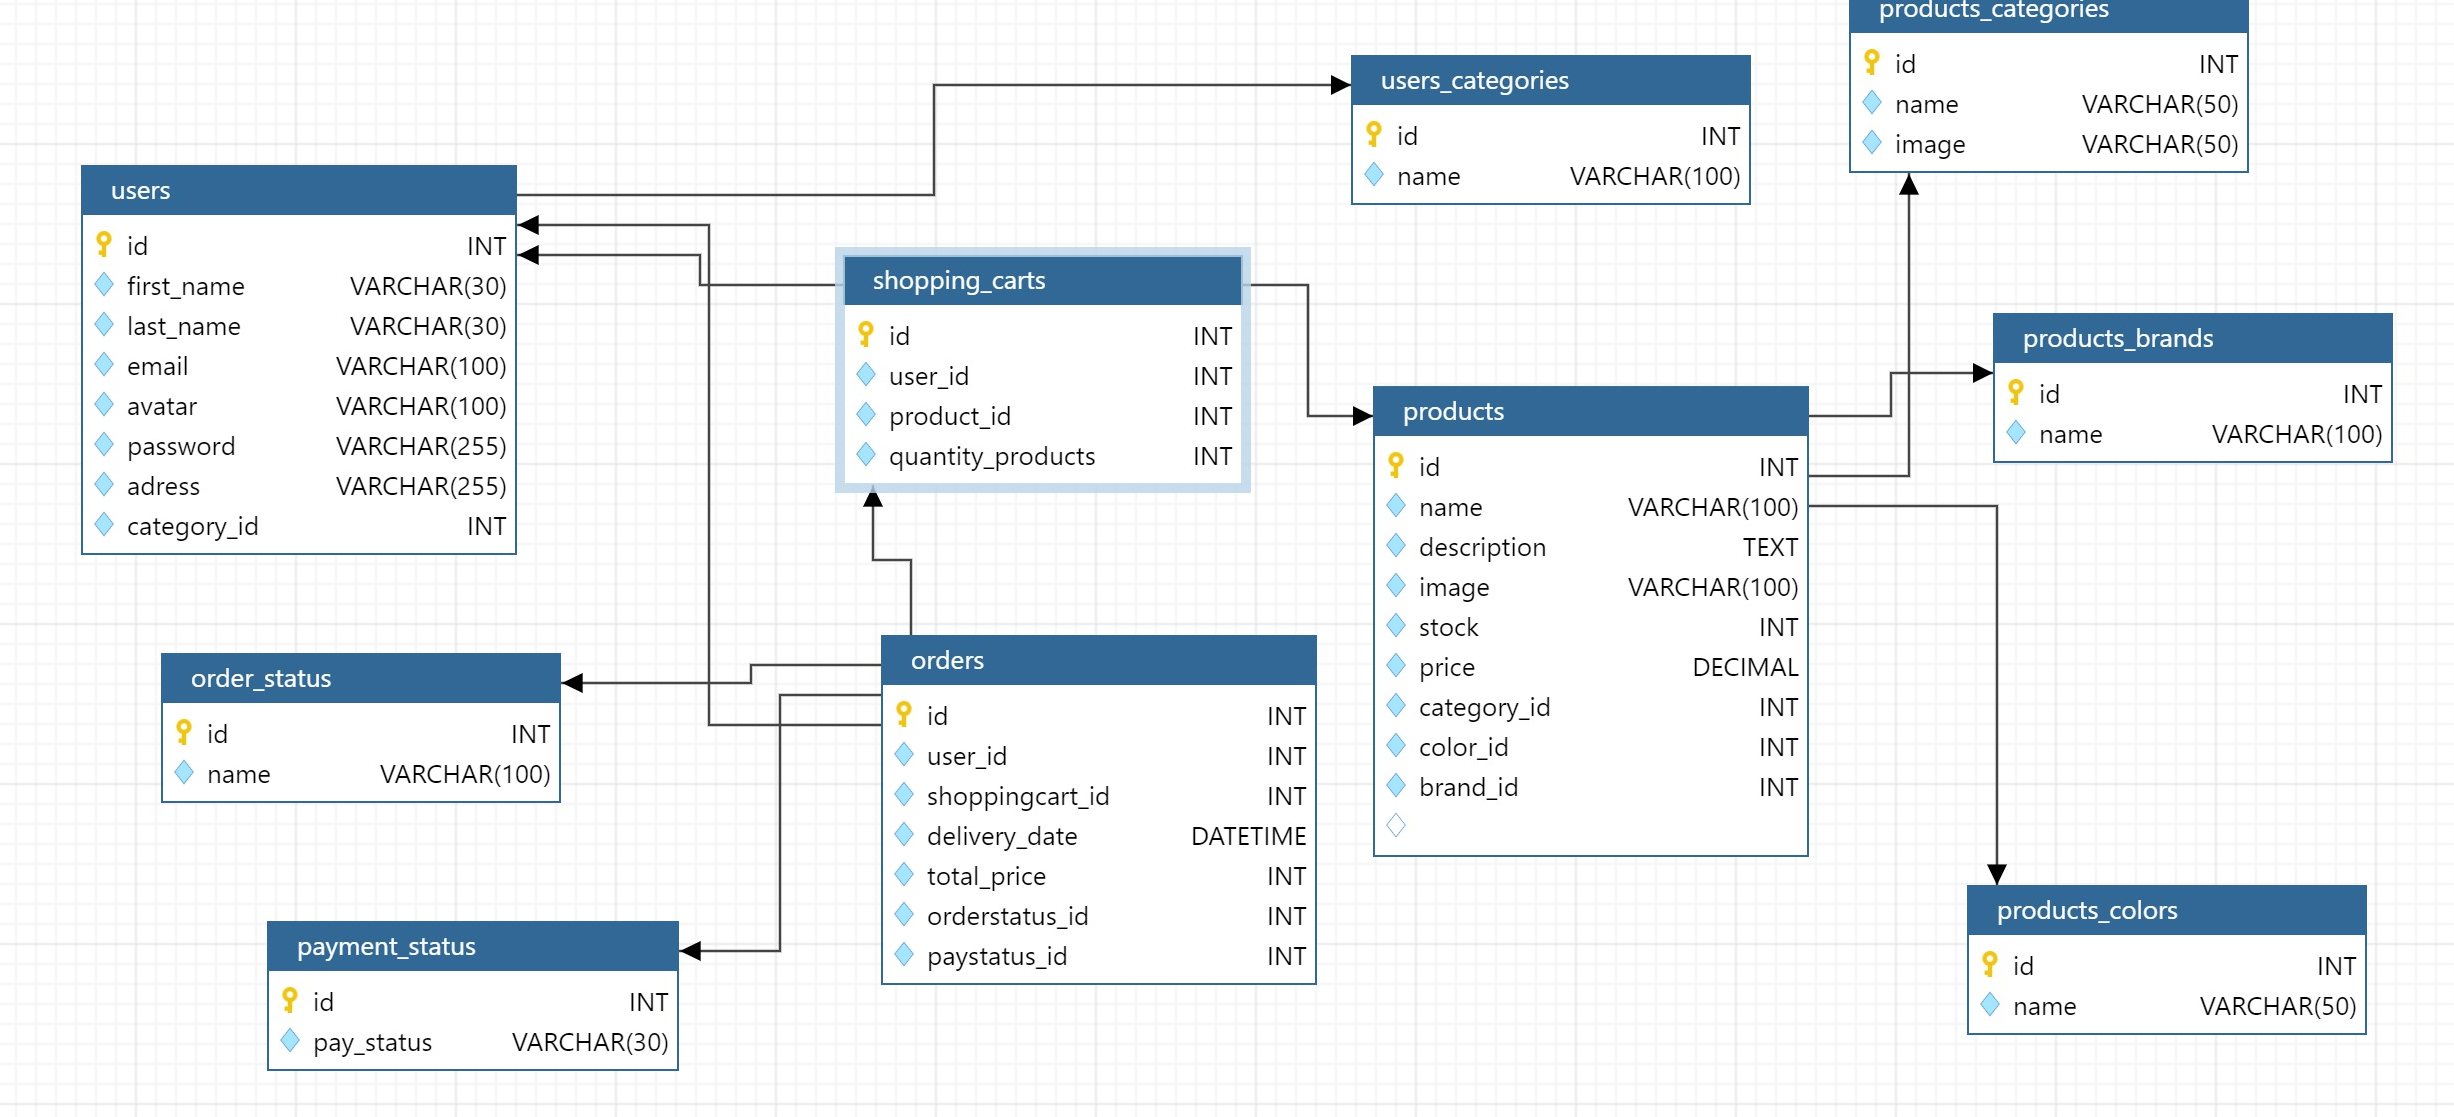
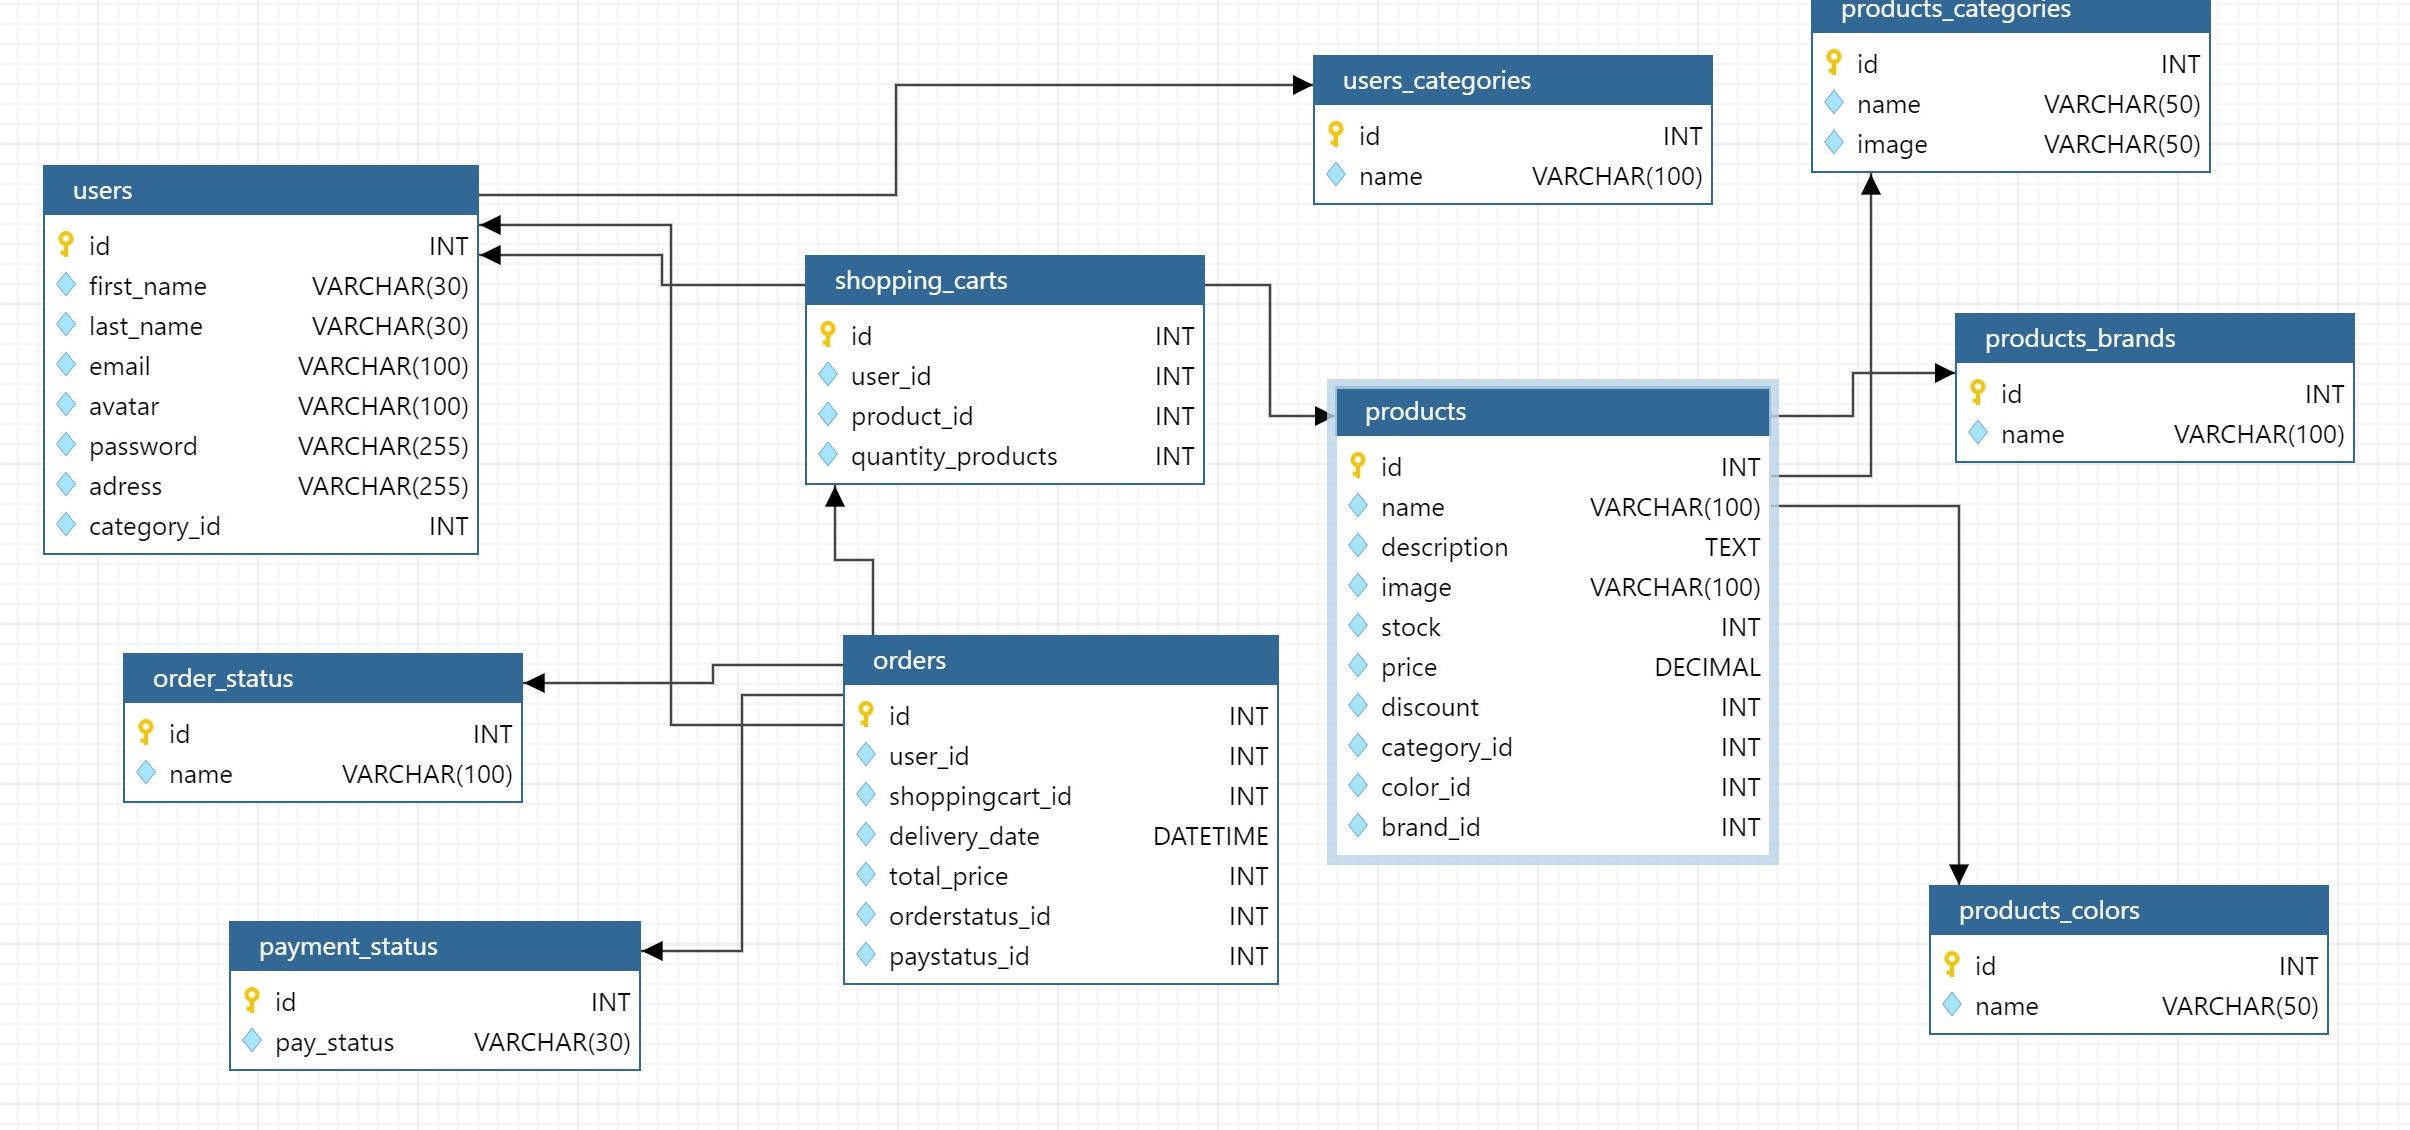
base de datos corregida

diff --git a/PAGINA WEB/controllers/productController.js b/PAGINA WEB/controllers/productController.js
@@ -50,6 +50,7 @@ const productController = {
             image:req.file.filename,
             stock:req.body.stock,
             price: req.body.price,
+            discount:req.body.discount,
             category_id:req.body.category,
             color_id:req.body.color,
             brand_id:req.body.brand
@@ -84,6 +85,7 @@ const productController = {
             image:req.file.filename,
             stock:req.body.stock,
             price: req.body.price,
+            discount:req.body.discount,
             category_id:req.body.category,
             color_id:req.body.color,
             brand_id:req.body.brand
@@ -95,6 +97,7 @@ const productController = {
                 description:req.body.description,
                 stock:req.body.stock,
                 price: req.body.price,
+                discount:req.body.discount,
                 category_id:req.body.category,
                 color_id:req.body.color,
                 brand_id:req.body.brand

diff --git a/PAGINA WEB/database/models/Product.js b/PAGINA WEB/database/models/Product.js
@@ -27,6 +27,8 @@ let cols = {
             allowNull: false
         },
         price: dataTypes.DECIMAL(10,2),
+
+        discount: dataTypes.INTEGER(),
        
         category_id: dataTypes.BIGINT(10),
         color_id: dataTypes.BIGINT(10),
